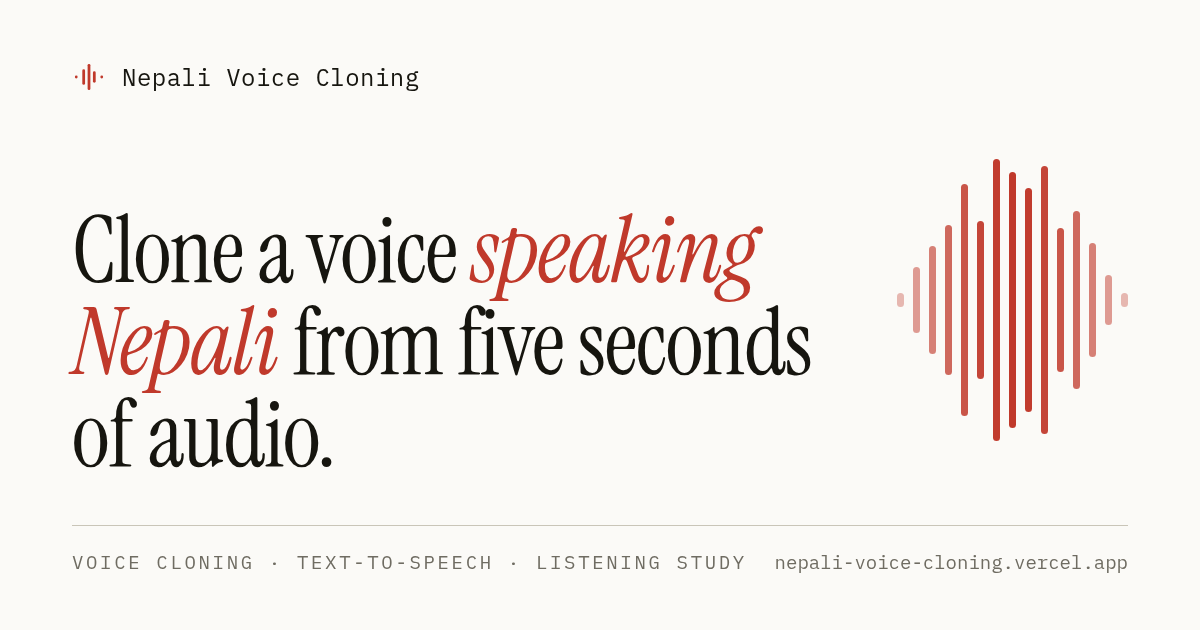
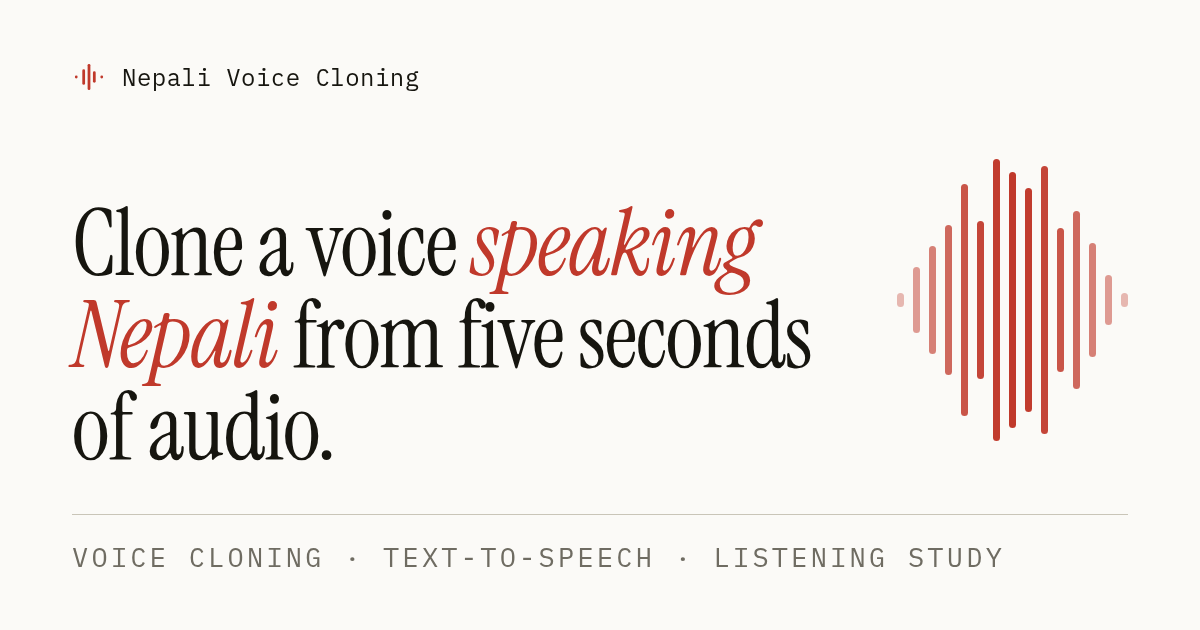
fix: size the link-preview footer for feed size, and drop its URL
Platforms show the card at well under half its 1200px width. In a LinkedIn
feed the 19px footer came out around 8px and was barely legible, and the URL in
it repeated the domain every platform already prints beneath the card.

The footer is now the three section names alone, at 27px -- about 12px at feed
size.

Changed region(s): [[0.0617, 0.3317, 0.6783, 0.754], [0.0617, 0.8746, 0.9558, 0.9048], [0.0617, 0.8143, 0.925, 0.8444]]

diff --git a/og/card.html b/og/card.html
@@ -44,17 +44,18 @@
     }
     h1 em { color: #c0392b; }
 
+    /* Previews are shown at well under half size, so this is sized for that: at
+       19px it came out around 8px in a LinkedIn feed. No URL here -- every
+       platform prints the domain under the card already. */
     .foot {
-      display: flex;
-      justify-content: space-between;
-      align-items: baseline;
-      margin-top: 44px;
+      margin-top: 40px;
       padding-top: 24px;
       border-top: 1px solid #c9c5b8;
-      font-size: 19px;
+      font-size: 27px;
+      letter-spacing: 0.12em;
+      text-transform: uppercase;
       color: #6f6c62;
     }
-    .foot .what { letter-spacing: 0.14em; text-transform: uppercase; }
 
     /* The wordmark's bars, scaled up into a strip of signal down the right edge. */
     .signal {
@@ -80,10 +81,7 @@
 
     <h1>Clone a voice <em>speaking Nepali</em> from five seconds of audio.</h1>
 
-    <div class="foot">
-      <span class="what">Voice cloning &middot; Text-to-speech &middot; Listening study</span>
-      <span>nepali-voice-cloning.vercel.app</span>
-    </div>
+    <div class="foot">Voice cloning &middot; Text-to-speech &middot; Listening study</div>
   </div>
 
   <div class="signal" aria-hidden="true"></div>
